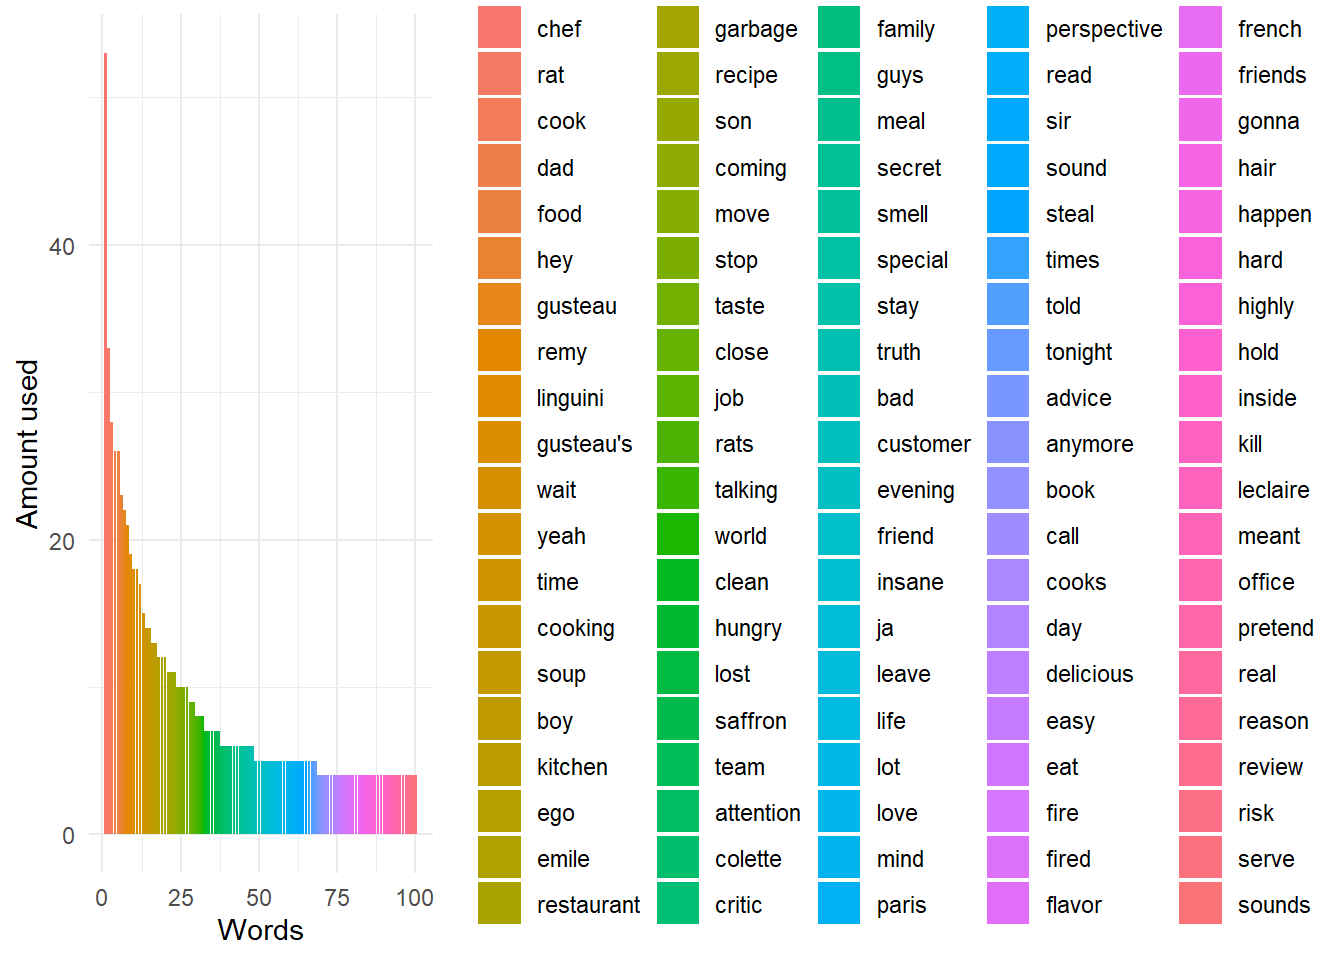
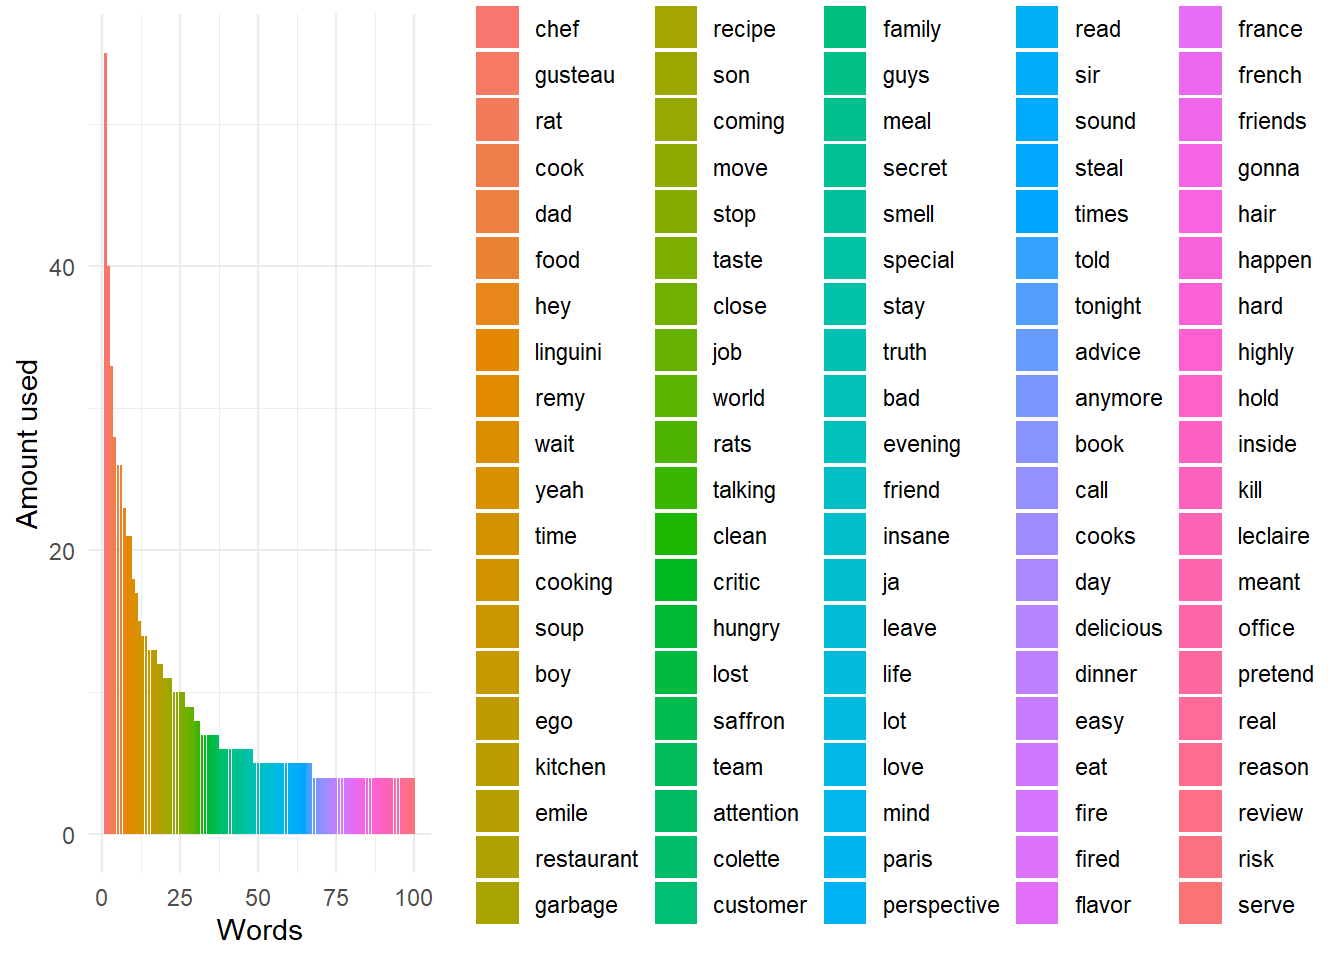
RaTaToUiLlE

diff --git a/docs/RATATOUILLE.html b/docs/RATATOUILLE.html
@@ -165,27 +165,27 @@ ul.task-list li input[type="checkbox"] {
 <tr class="odd">
 <td style="text-align: left;">word</td>
 <td style="text-align: left;">chef</td>
+<td style="text-align: left;">gusteau</td>
 <td style="text-align: left;">rat</td>
 <td style="text-align: left;">cook</td>
 <td style="text-align: left;">dad</td>
 <td style="text-align: left;">food</td>
 <td style="text-align: left;">hey</td>
-<td style="text-align: left;">gusteau</td>
-<td style="text-align: left;">remy</td>
 <td style="text-align: left;">linguini</td>
-<td style="text-align: left;">gusteau's</td>
+<td style="text-align: left;">remy</td>
+<td style="text-align: left;">wait</td>
 </tr>
 <tr class="even">
 <td style="text-align: left;">n</td>
-<td style="text-align: left;">53</td>
+<td style="text-align: left;">55</td>
+<td style="text-align: left;">40</td>
 <td style="text-align: left;">33</td>
 <td style="text-align: left;">28</td>
 <td style="text-align: left;">26</td>
 <td style="text-align: left;">26</td>
 <td style="text-align: left;">23</td>
-<td style="text-align: left;">22</td>
 <td style="text-align: left;">21</td>
-<td style="text-align: left;">19</td>
+<td style="text-align: left;">21</td>
 <td style="text-align: left;">18</td>
 </tr>
 </tbody>
